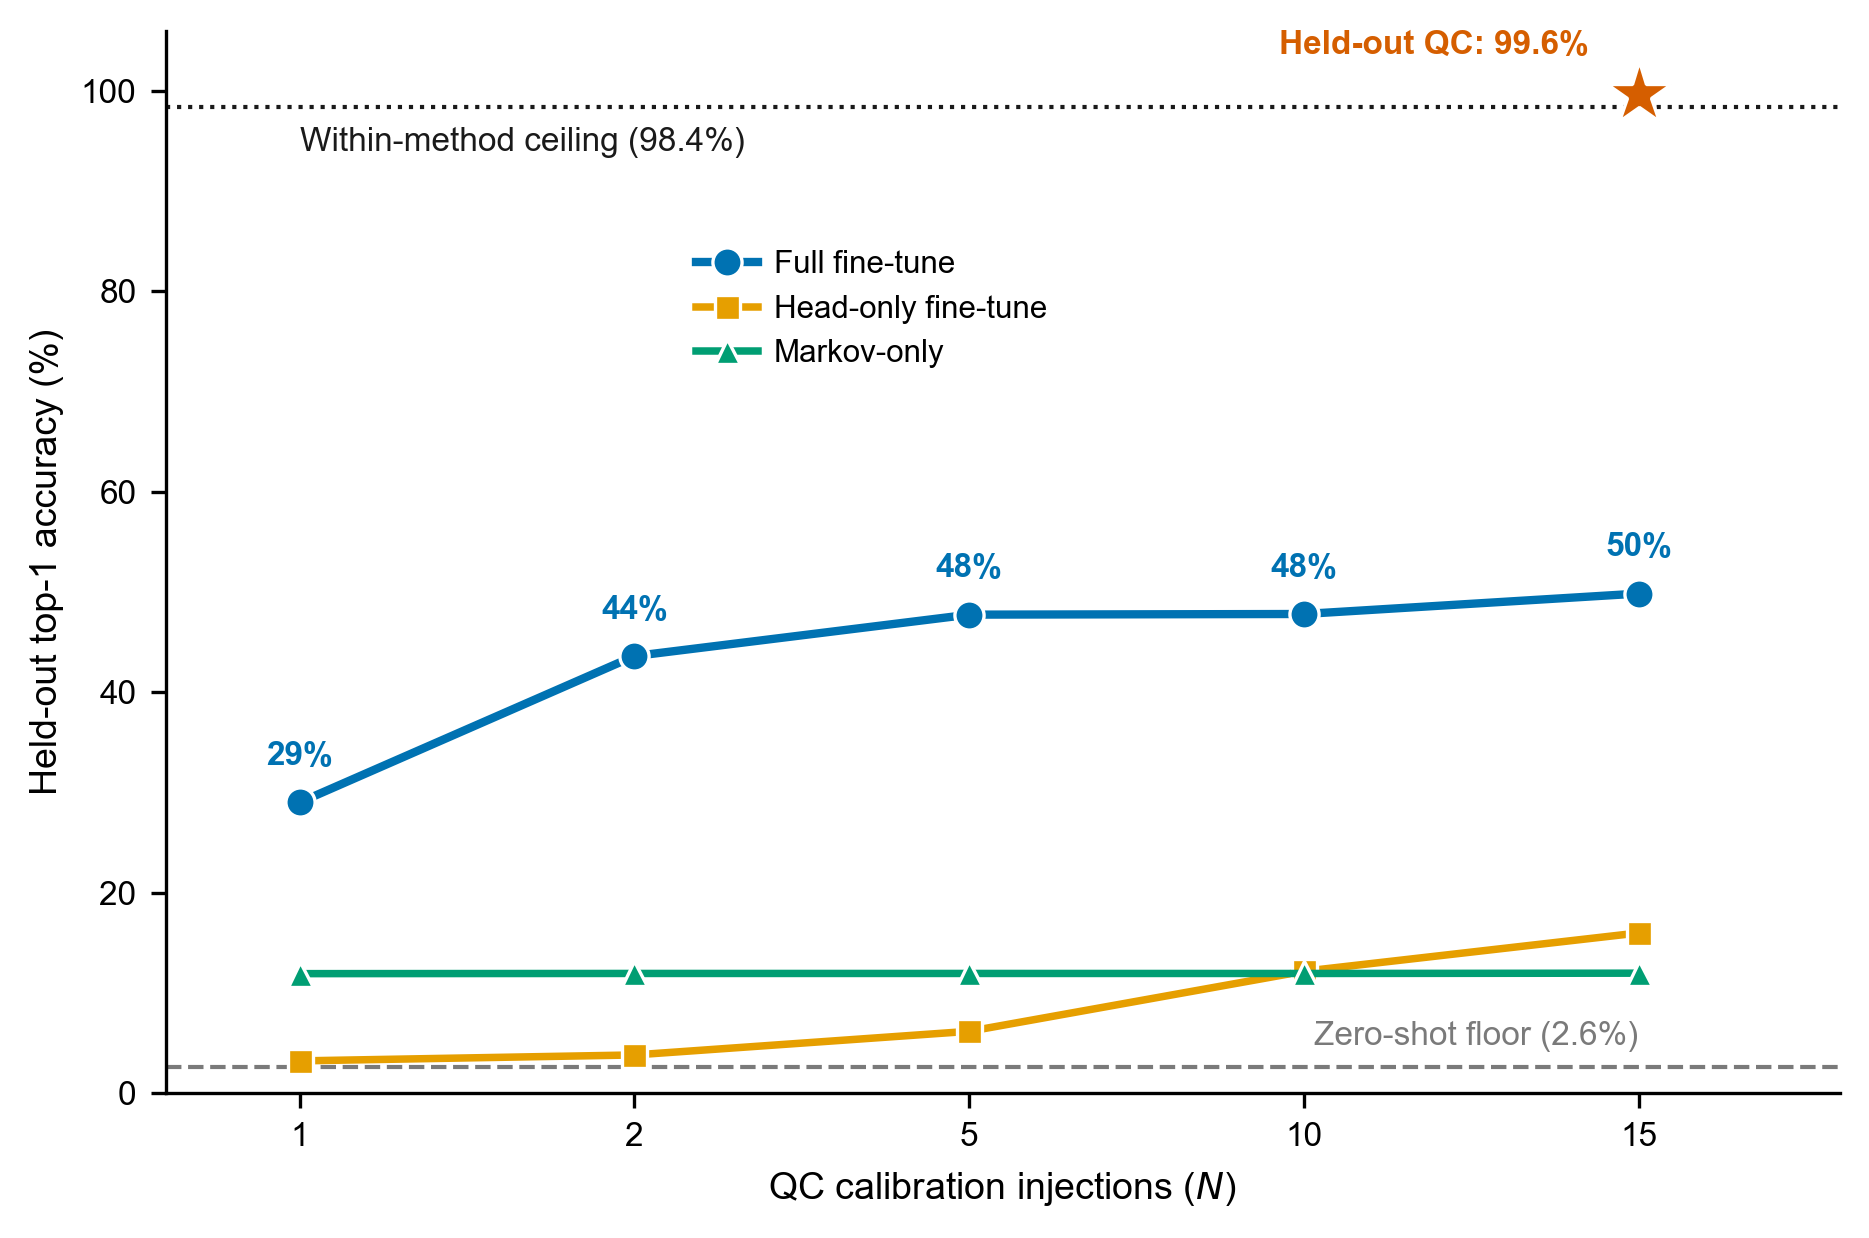
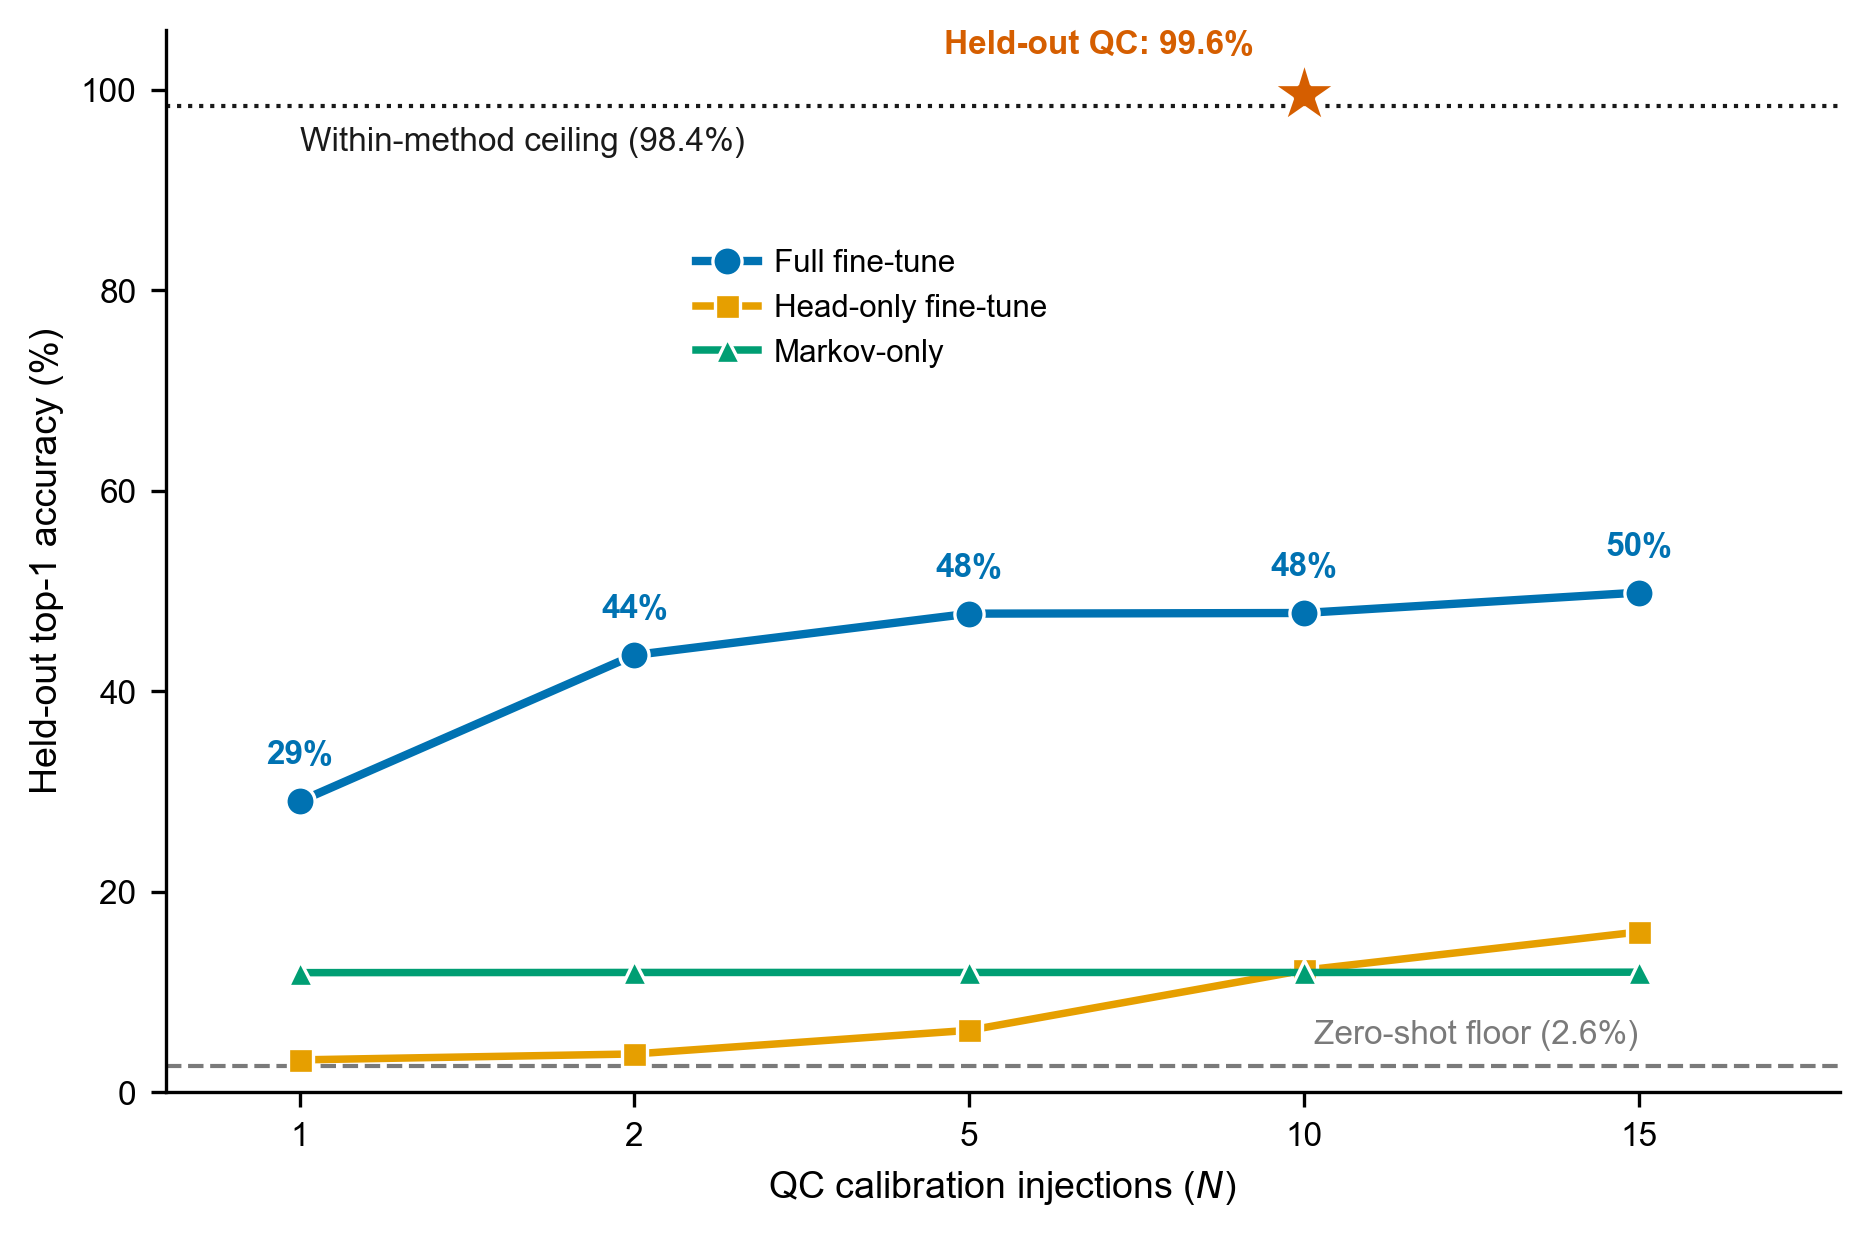
Sync integrity-sweep figure corrections + add Fig 8 source data
Propagates the 2026-06-01 manuscript integrity-sweep figure changes into this
companion repo:
- Fig 3 + Fig 6: Random baseline bar corrected 1.1% -> 1.5% (authoritative
  next-m/z baseline value; the 1.1% was from a different task's baseline file).
- Fig 9: held-out-QC star moved from N=15 to N=10 (the genuine held-out QC
  injection; N=15 used an internal window split).
- Fig 2: native vector re-render (numbers unchanged: 12 classes / 1,498 features).
- Fig 8: add the source data outputs/acquisition_simulation/lstm_position_accuracy.csv
  (non-clinical model predictions) via a targeted .gitignore exception, and make
  the Fig 8 script prefer the repo-local copy with a Drive fallback, so the figure
  reproduces from the public repo.
No manuscript text lives in this repo; the prose/numeric corrections are in the
grant repo. No clinical data or identifiers added (PHI scan clean).

diff --git a/manuscript/scripts/fig9_transfer_recovery.py b/manuscript/scripts/fig9_transfer_recovery.py
@@ -4,8 +4,9 @@ Single panel: held-out top-1 accuracy vs number of QC calibration injections N,
 for full fine-tune / head-only fine-tune / Markov-only (all evaluated on the
 strictly held-out ANALYTICAL samples), with the 2.6% zero-shot floor (dashed) and
 98.4% within-method ceiling (dotted). A separate vermillion star marks the 99.6%
-held-out-QC accuracy at N=15 (a DIFFERENT evaluation set), showing the
-representation-diversity gap between QC and analytical recovery.
+held-out-QC accuracy at N=10 (a DIFFERENT evaluation set; the largest N whose QC
+validation is a genuine held-out QC injection), showing the representation-diversity
+gap between QC and analytical recovery.
 
 Data source: outputs/phase9_transfer/phase9_gpu_results.json (the GPU run that
 reproduces manuscript Table 6).
@@ -58,7 +59,7 @@ def series(method):
 full = series("full_finetune")
 head = series("fine_tune_head")
 markov = series("markov_only")
-qc_n15 = next(r for r in R["full_finetune"] if r["N"] == 15)["heldout_qc_top1"] * 100  # 99.6%
+qc_n10 = next(r for r in R["full_finetune"] if r["N"] == 10)["heldout_qc_top1"] * 100  # 99.6% (genuine held-out QC sample)
 
 x = np.arange(len(N_VALUES))   # categorical: equal spacing for 1,2,5,10,15
 
@@ -85,11 +86,13 @@ for xi, v in zip(x, full):
     ax.annotate(f"{v:.0f}%", (xi, v), textcoords="offset points", xytext=(0, 9),
                 ha="center", fontsize=FS_SMALL, fontweight="bold", color=BLUE)
 
-# 99.6% held-out QC callout at N=15 (vermillion: a DIFFERENT eval set from the
-# blue analytical curve — distinct color so it cannot read as the curve terminus)
-ax.plot(x[-1], qc_n15, marker="*", color=VERMILLION, markersize=16,
+# 99.6% held-out QC callout at N=10 (vermillion: a DIFFERENT eval set from the
+# blue analytical curve — distinct color so it cannot read as the curve terminus).
+# Plotted at N=10, the largest N whose QC validation is a genuine held-out QC
+# injection (held_out_qc_sample); at N=15 all 15 QC are used for training.
+ax.plot(x[3], qc_n10, marker="*", color=VERMILLION, markersize=16,
         markeredgecolor="white", markeredgewidth=0.8, zorder=5)
-ax.annotate(f"Held-out QC: {qc_n15:.1f}%", (x[-1], qc_n15),
+ax.annotate(f"Held-out QC: {qc_n10:.1f}%", (x[3], qc_n10),
             textcoords="offset points", xytext=(-12, 8), ha="right", va="bottom",
             fontsize=FS_SMALL, color=VERMILLION, fontweight="bold")
 

diff --git a/manuscript/scripts/fig8_position_accuracy.py b/manuscript/scripts/fig8_position_accuracy.py
@@ -10,8 +10,11 @@ from pathlib import Path
 
 # Paths
 FIGURES_DIR = Path(__file__).resolve().parent.parent / "figures"
+REPO_ROOT = Path(__file__).resolve().parents[2]
+# Prefer the repo-local copy (committed for reproducibility); fall back to Drive.
+_REPO_CSV = REPO_ROOT / "outputs" / "acquisition_simulation" / "lstm_position_accuracy.csv"
 GDRIVE = Path("H:/My Drive/0000 Fun with coding/088 Lights-Out R01 Grant/Specific Aim 1/poc3_elution_sequence")
-POS_CSV = GDRIVE / "06_acquisition_simulation" / "outputs" / "lstm_position_accuracy.csv"
+POS_CSV = _REPO_CSV if _REPO_CSV.exists() else GDRIVE / "06_acquisition_simulation" / "outputs" / "lstm_position_accuracy.csv"
 OUTPUT = FIGURES_DIR / "fig8_position_accuracy.pdf"
 
 # Load position accuracy data (large file — sample_idx, pos, rt_seconds, rt_fraction, pred_mz, actual_mz, correct)

diff --git a/manuscript/scripts/fig3_model_performance.py b/manuscript/scripts/fig3_model_performance.py
@@ -28,7 +28,7 @@ transformer_test = results["transformer"]["test_metrics"]
 
 # Baseline results (from manuscript Table 1)
 baselines = {
-    "Random": 1.1,
+    "Random": 1.5,
     "Global\nfrequency": 3.4,
     "Same-as-\nprevious": 23.1,
     "Markov\norder-1": 25.1,

diff --git a/manuscript/scripts/fig6_cross_platform.py b/manuscript/scripts/fig6_cross_platform.py
@@ -102,7 +102,7 @@ gsC = gs[2].subgridspec(2, 1, height_ratios=[1, 2.4], hspace=0.10)
 ax_hi = fig.add_subplot(gsC[0]); ax_lo = fig.add_subplot(gsC[1])
 labels = ["Random", "LSTM", "Transformer", "LSTM"]
 sub = ["", "ST003514", "ST003514", "training"]
-accs = [1.1, 5.1, 3.1, 98.4]
+accs = [1.5, 5.1, 3.1, 98.4]
 colors = [GREY, VERMILLION, VERMILLION, BLUE]
 for ax in (ax_hi, ax_lo):
     ax.bar(range(4), accs, color=colors, edgecolor="white", width=0.64)